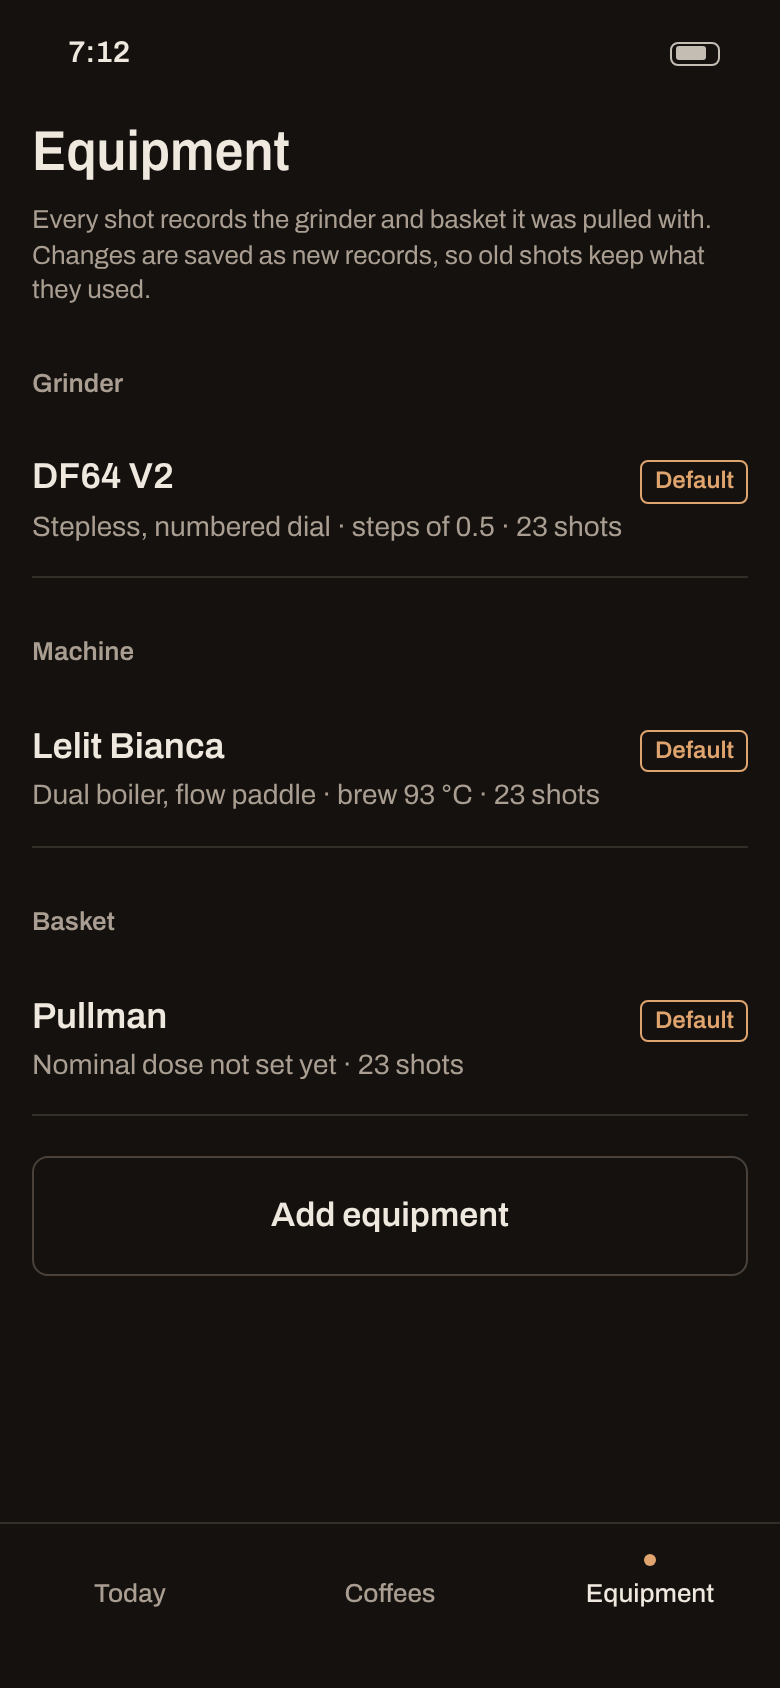
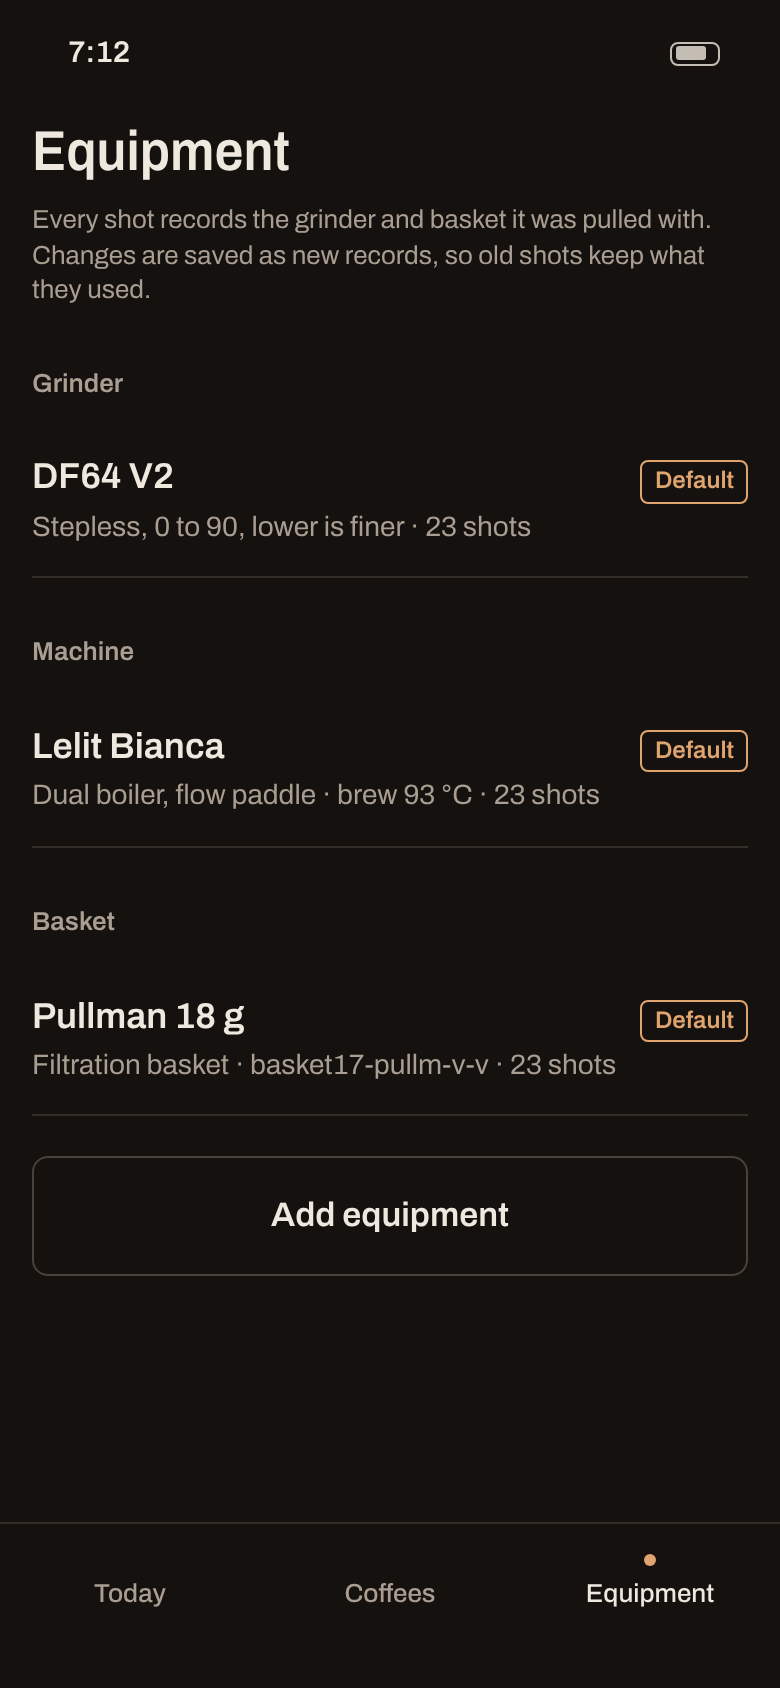
Record equipment details and take shots off the public site in the plan
DF64 V2 dial 0 to 90 with lower finer, an 18 g Pullman filtration basket,
no shots on the GitHub Pages site (removed in milestone 1, issue form in
milestone 2), and a bag-read comparison set that grows from confirmed
captures, with Opus as the default until it has 20 bags.

Claude-Session: https://claude.ai/code/session_01TipAHJ9d4fbng8cLHiGWtL

Changed region(s): [[0.0615, 0.5853, 0.6154, 0.6469], [0.2154, 0.3081, 0.8, 0.3389], [0.6462, 0.6161, 0.8, 0.6469]]

diff --git a/docs/app/mockups/log-shot.html b/docs/app/mockups/log-shot.html
@@ -160,7 +160,7 @@ h2 { font-size: 13px; font-weight: 600; color: var(--ink-2); margin: 28px 0 10px
 <main class="screen">
   <div class="top">
     <span class="back">‹ Today</span>
-    <span class="small muted" style="border:1px solid var(--rule-strong);border-radius:4px;padding:4px 8px">DF64 V2 · Pullman</span>
+    <span class="small muted" style="border:1px solid var(--rule-strong);border-radius:4px;padding:4px 8px">DF64 V2 · Pullman 18 g</span>
   </div>
   <div class="row" style="margin:6px 0 4px;align-items:baseline">
     <div class="serif" style="font-size:24px">Hambela Alaka</div>
@@ -181,7 +181,7 @@ h2 { font-size: 13px; font-weight: 600; color: var(--ink-2); margin: 28px 0 10px
     <div class="steps"><div class="step timer">Start</div><div class="step" style="font-size:15px;font-weight:600">Type</div></div>
   </div>
   <div class="field">
-    <div><div class="l"><span class="label">Grind</span><span class="hint">was 12</span></div><div class="v"><span class="num">11</span><span class="u">on the dial</span></div></div>
+    <div><div class="l"><span class="label">Grind</span><span class="hint">was 12</span></div><div class="v"><span class="num">11</span><span class="u">of 90</span></div></div>
     <div class="steps"><div class="step">−</div><div class="step">+</div></div>
   </div>
 

diff --git a/docs/app/mockups/equipment.html b/docs/app/mockups/equipment.html
@@ -170,15 +170,15 @@ h2 { font-size: 13px; font-weight: 600; color: var(--ink-2); margin: 28px 0 10px
 
   <h2>Grinder</h2>
   <div class="gear"><span class="n">DF64 V2</span><span class="tag">Default</span>
-    <span class="d">Stepless, numbered dial · steps of 0.5 · 23 shots</span></div>
+    <span class="d">Stepless, 0 to 90, lower is finer · 23 shots</span></div>
 
   <h2>Machine</h2>
   <div class="gear"><span class="n">Lelit Bianca</span><span class="tag">Default</span>
     <span class="d">Dual boiler, flow paddle · brew 93 °C · 23 shots</span></div>
 
   <h2>Basket</h2>
-  <div class="gear"><span class="n">Pullman</span><span class="tag">Default</span>
-    <span class="d">Nominal dose not set yet · 23 shots</span></div>
+  <div class="gear"><span class="n">Pullman 18 g</span><span class="tag">Default</span>
+    <span class="d">Filtration basket · basket17-pullm-v-v · 23 shots</span></div>
 
   <div style="margin-top:20px"><div class="btn secondary">Add equipment</div></div>
   <div style="height:24px"></div>

diff --git a/docs/app/PLAN.md b/docs/app/PLAN.md
@@ -19,7 +19,8 @@ small grind change) three taps, and makes a new bag one photo and one tap.
 - Show dial-in advice the moment a shot is saved, using the same rules as `shots.suggest_next`.
 - Give each coffee a page with its shots, best recipe, and the catalog's current price and stock.
 - Keep the lake append-only. New tables and new nullable columns only; every existing shot stays valid.
-- Keep bag photos private. They never reach the public tables, the public site or git.
+- Keep shots and bag photos private. Neither reaches the public tables, the public site or git. Shots come off
+  the GitHub Pages site (see Privacy).
 
 ## Non-goals
 
@@ -91,11 +92,17 @@ default. Adding a grinder takes a name and those three numbers. Retiring one hid
 shots pointing at it. Changes are new records, with the latest per `equipment_id` winning.
 
 Most mornings nobody touches this screen. The shot form shows the current grinder and basket as one small chip
-("DF64 V2 · Pullman"); tapping it switches.
+("DF64 V2 · Pullman 18 g"); tapping it switches.
 
-The owner's setup to seed on first run: a DF64 V2 grinder (stepless, numbered dial), a Lelit Bianca, and a Pullman
-basket. The DF64's dial range, the step the stepper should use, which way is finer and the Pullman's nominal dose
-are entered once when the grinder and basket are added (see Decisions).
+The owner's setup, seeded on first run:
+
+| Kind | Name | Settings |
+|---|---|---|
+| Grinder | DF64 V2 | stepless dial, `scale_min` 0, `scale_max` 90, `finer_is_lower` true, stepper step 0.5 (changeable) |
+| Machine | Lelit Bianca | default |
+| Basket | Pullman Filtration Basket, 18 g | `model` = `basket17-pullm-v-v`, `basket_dose_g` 18 |
+
+The basket's 18 g becomes the default dose for a coffee's first shot.
 
 ## Screens
 
@@ -186,9 +193,12 @@ a JSON schema through structured outputs, so the response always parses. Bag lab
 The model is chosen by measurement, as the owner asked: Claude Opus 5.5 (`claude-opus-5-5`) and Claude Haiku 5.5
 (`claude-haiku-5-5`) are compared on the same set of real bags before either becomes the default.
 
-- The set: 20 to 30 photos of real bags, ideally including a few hard ones (hand lettering, a sticker on kraft
-  paper, a date stamp, a café's own bag). Each has the expected roaster, coffee, roast date and catalog match,
-  filled in by hand.
+- The set: real bag photos with the right answer attached. The app builds this as it's used: every bag confirmed
+  on the match card (or corrected through "Not this one") is a photo with a known `coffee_id` and roast date. The
+  first comparison runs on whatever bags exist when capture ships, plus any old bags or photos the owner has to
+  hand, and it's re-run once there are 20. Hard labels (hand lettering, a sticker on kraft paper, a date stamp, a
+  café's own bag) are worth adding on purpose.
+- Until the comparison has 20 bags, Opus is the default, since it's the safer reader and costs about a cent a bag.
 - Each model reads every photo three times at low effort, with the same prompt and schema.
 - Scored per field: roaster, coffee name and roast date exact (after normalizing case and date format), plus the
   end-to-end result that matters: did the Python matcher land on the right `coffee_id`? Also logged: latency and
@@ -326,9 +336,12 @@ A grind setting is now only comparable within one grinder. `suggest_next` and `m
 - The image goes to the Anthropic API to be read. Under standard API terms it isn't used for training; it is still
   a third party seeing a photo of a kitchen counter. The capture screen frames the bag tightly to keep the
   background small.
-- The public site already lists recent shots and a rating chart (`site.py`). That's coffee name, ratio, time and
-  rating; it never showed notes, and it won't show equipment or photos. Whether shots should stay on the public
-  site at all is open question 6.
+- Shots leave the public site. Today `site.py` renders "My shots: rating by brew ratio" and "Recent shots" from
+  `fct_shot` on the GitHub Pages site; milestone 1 removes both sections and the scatter chart, and adds a test
+  that the generated site contains no shot fields. Shots are then visible only in the app.
+- The "Log a shot" issue form posts the shot and the reply as a GitHub issue, which is public if the repo is. Once
+  the app works (milestone 2) the form is redundant; the plan is to remove it then and keep the MCP server as the
+  non-app path.
 
 ## Cost
 
@@ -348,11 +361,11 @@ The app adds nothing to the weekly run's cost.
 Each one is usable on its own and goes through the normal PR and CI process.
 
 1. **Data model.** New lake tables and shot columns, `Shot` model fields, `stg_`/`dim_` models, the public-table
-   test update, the `fct_shot` mart export. The MCP `log_shot` tool and issue form accept `grinder`. No app yet;
-   tests over a synthetic lake with old and new shots mixed.
+   test update, the `fct_shot` mart export. The MCP `log_shot` tool accepts `grinder`. Shot sections removed from
+   the public site. No app yet; tests over a synthetic lake with old and new shots mixed.
 2. **App skeleton.** FastAPI on a Space, HF OAuth with the owner allowlist, the deploy workflow, the in-memory shot
    cache. Today and Log shot with prefill, advice, the timer and typed time. Online only. Includes the approved
-   concurrent-commit test.
+   concurrent-commit test. The "Log a shot" issue form is removed at the end of this milestone.
 3. **Equipment.** Equipment screen, grinder-aware steppers and advice.
 4. **Bag capture.** Photo upload, EXIF stripping, the photo dataset, the Claude read, roaster-then-coffee matching,
    the match card and its fallbacks. The Opus/Haiku comparison on real bags decides the default model.
@@ -369,7 +382,8 @@ app, but it needs the bag and photo tables from 1 first.
 | Question | Answer | What it changes |
 |---|---|---|
 | Phone | Android | Haptics work through `navigator.vibrate`. The PWA installs from Chrome and keeps its login like a normal tab. Web Bluetooth is available if a scale is wanted later. |
-| Equipment | DF64 V2, Lelit Bianca, Pullman basket | Seeded as the defaults. The mockups show them. |
+| Equipment | DF64 V2 (dial 0 to 90, lower is finer), Lelit Bianca, 18 g Pullman Filtration Basket (`basket17-pullm-v-v`) | Seeded as the defaults; 18 g is the default first dose. The mockups show them. |
+| Public site | No shots on it | Shot sections leave `site.py` in milestone 1; the issue form goes in milestone 2. |
 | Cold start | Fine for now | Free CPU Space. |
 | Photos | Stay private, still Parquet | Separate private dataset, image bytes in a Parquet `binary` column, no new file type in the lake. |
 | Shot timer | Built in, but typing must also work | The time row has Start/Stop and Type side by side. |
@@ -377,12 +391,9 @@ app, but it needs the bag and photo tables from 1 first.
 | Other users | No, just the owner | One-username allowlist stays. |
 | Concurrent-commit test | Yes | Runs in milestone 2, to a test path only. |
 | Bag-read model | Compare Haiku and Opus | The comparison in "Where the bag photo is read" picks the default. |
+| Bags for the comparison | Maybe some | The set grows from confirmed captures; Opus is the default until it has 20. |
 
 ## Open questions for the owner
 
-1. Should shots stay on the public GitHub Pages site once equipment and bags exist, or move entirely into the app?
-2. The DF64 V2's dial: what range do you use for espresso, what step should the stepper move in (0.5? 1?), and
-   does a lower number mean finer?
-3. Which Pullman basket size (its nominal dose)? It sets the default dose and the dose hint.
-4. Do you have 20 to 30 bags (or photos of past bags) for the Haiku/Opus comparison, including a couple of hard
-   labels?
+1. Is 0.5 the right stepper step on the DF64's dial, or do you move it in whole numbers?
+2. Remove the "Log a shot" issue form once the app works (the plan's default), or keep it as a fallback?
